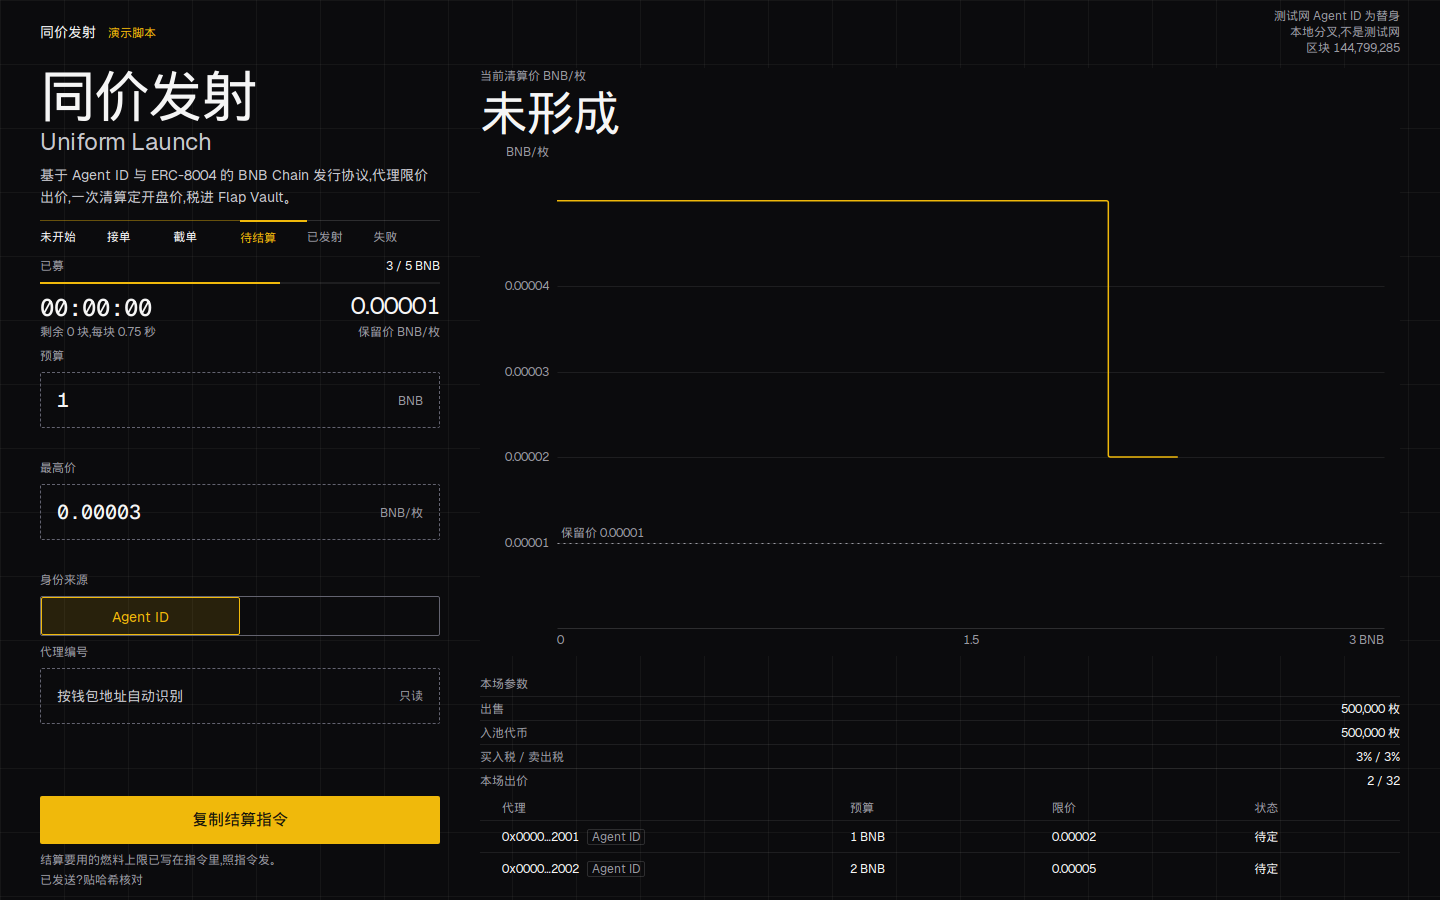
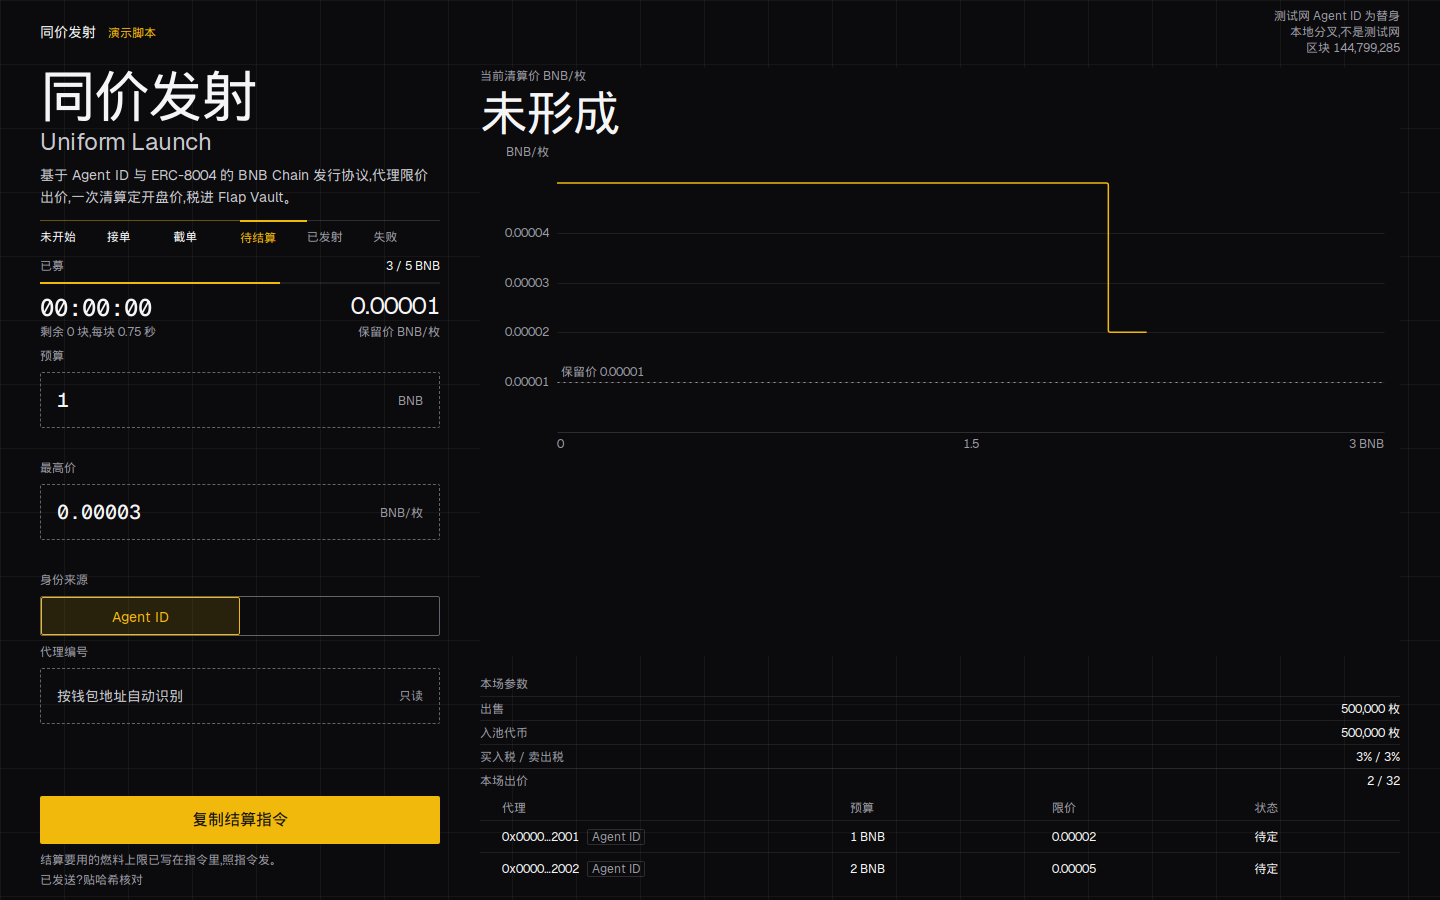
Keep a short bid list from stretching the curve.
The plot now stops at 320px, so a two-bid auction no longer turns the step into a hairline across a tall empty panel. Live pages are checked for label overlap.

diff --git a/web/src/styles.css b/web/src/styles.css
@@ -306,7 +306,7 @@ button.primary:disabled { opacity: 0.4; cursor: default; }
 }
 .chart-price.dim { color: var(--text); }
 .fail-line { margin: var(--space-1) 0 0; font-size: var(--fs-12); line-height: var(--lh-16); color: var(--muted); }
-.plot-wrap { position: relative; flex: 1; min-height: 240px; min-width: 0; width: 100%; display: flex; background: var(--bg); }
+.plot-wrap { position: relative; flex: 1; min-height: 240px; max-height: 320px; min-width: 0; width: 100%; display: flex; background: var(--bg); }
 .stage {
   position: relative;
   flex: 1;

diff --git a/docs/design-log.md b/docs/design-log.md
@@ -32,3 +32,10 @@ Wed Nov 25 06:37:58 PM UTC 2026
 - 复制失败是拒绝剪贴板之后拍的，after-copy-fail-*。
 - 帮助行回到 8px。原来「编号怎么填」带着大约 14px 的段落外边距，收掉之后按钮上沿仍是 796，下沿 844，左栏下沿 884。
 - 原型 qa/prototypes/weight.png、rect.png、window.png。选定字重 400、平涂、1px 整框。
+Wed Nov 25 06:43:05 PM UTC 2026
+阶段：手机操作条、演示脚本文案、曲线高度。起于上一提交前后，止见上一行。
+- 1440 六个阶段主按钮上沿都是 796，下沿 844，左栏下沿 884。接单和已发射有同价矩形，失败有灰色阶梯且没有矩形，未开始没有矩形。
+- 390 六个阶段的操作都在第一屏：接单按钮 756–808，截单说明 780–832，待结算按钮 756–808，已发射和失败按钮 780–832。绘图区 260。32 笔列表滚到每一行，点中的都是这一行。
+- 375×667 按钮 579–631，绘图区 260，没有横向溢出。
+- 出价少的时候曲线会把右栏撑到 500px 以上，台阶缩成一条。plot 最高 320px 之后，截单、待结算、已发射、失败的绘图区是 316，接单仍是 288。
+- forge test 48 通过。npm run build 通过。
